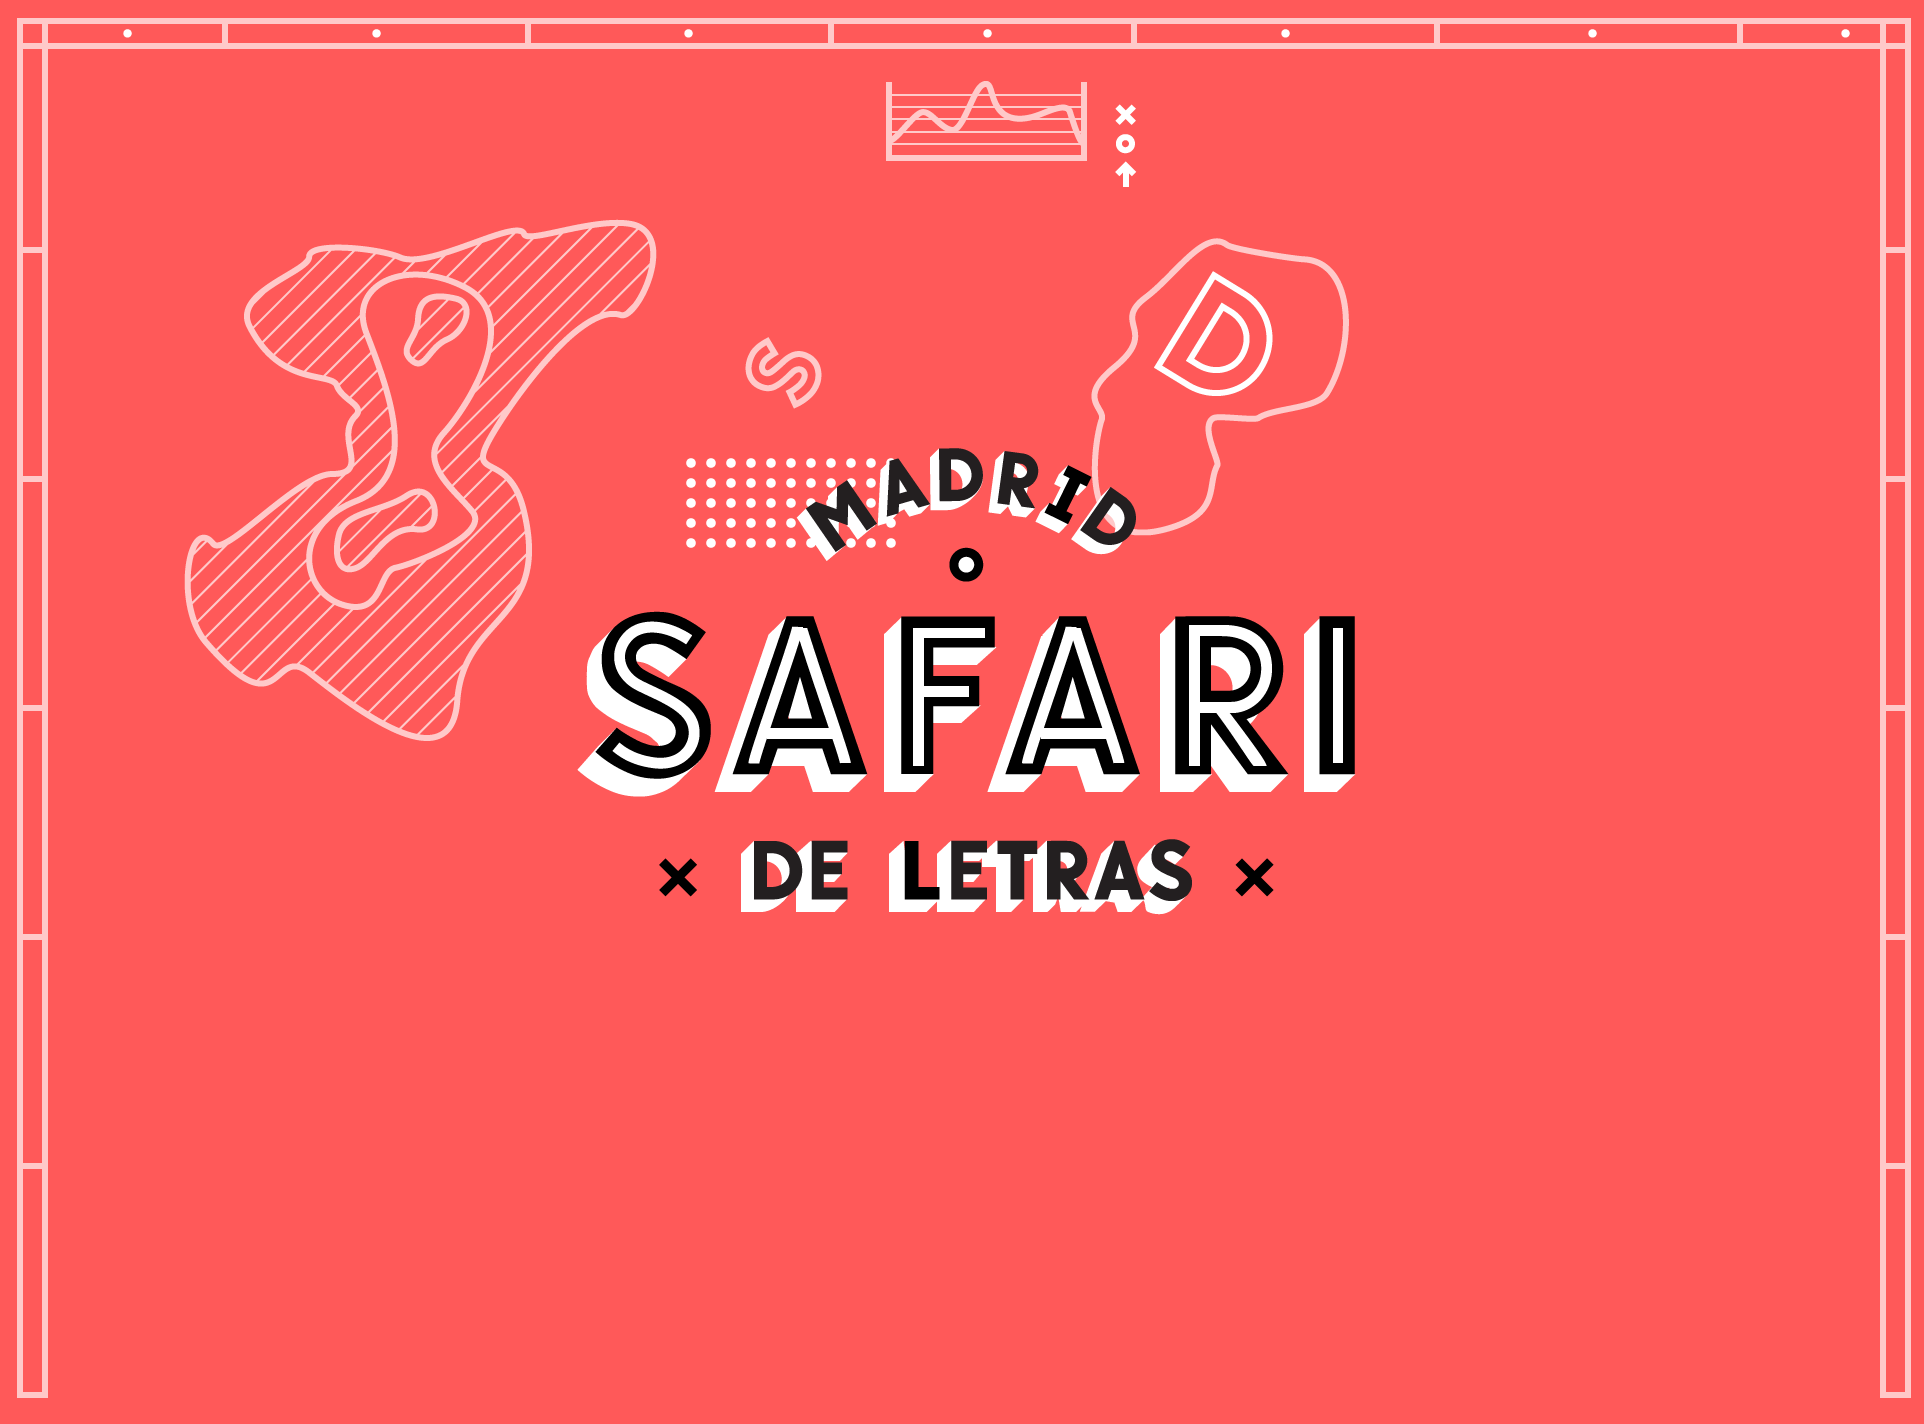
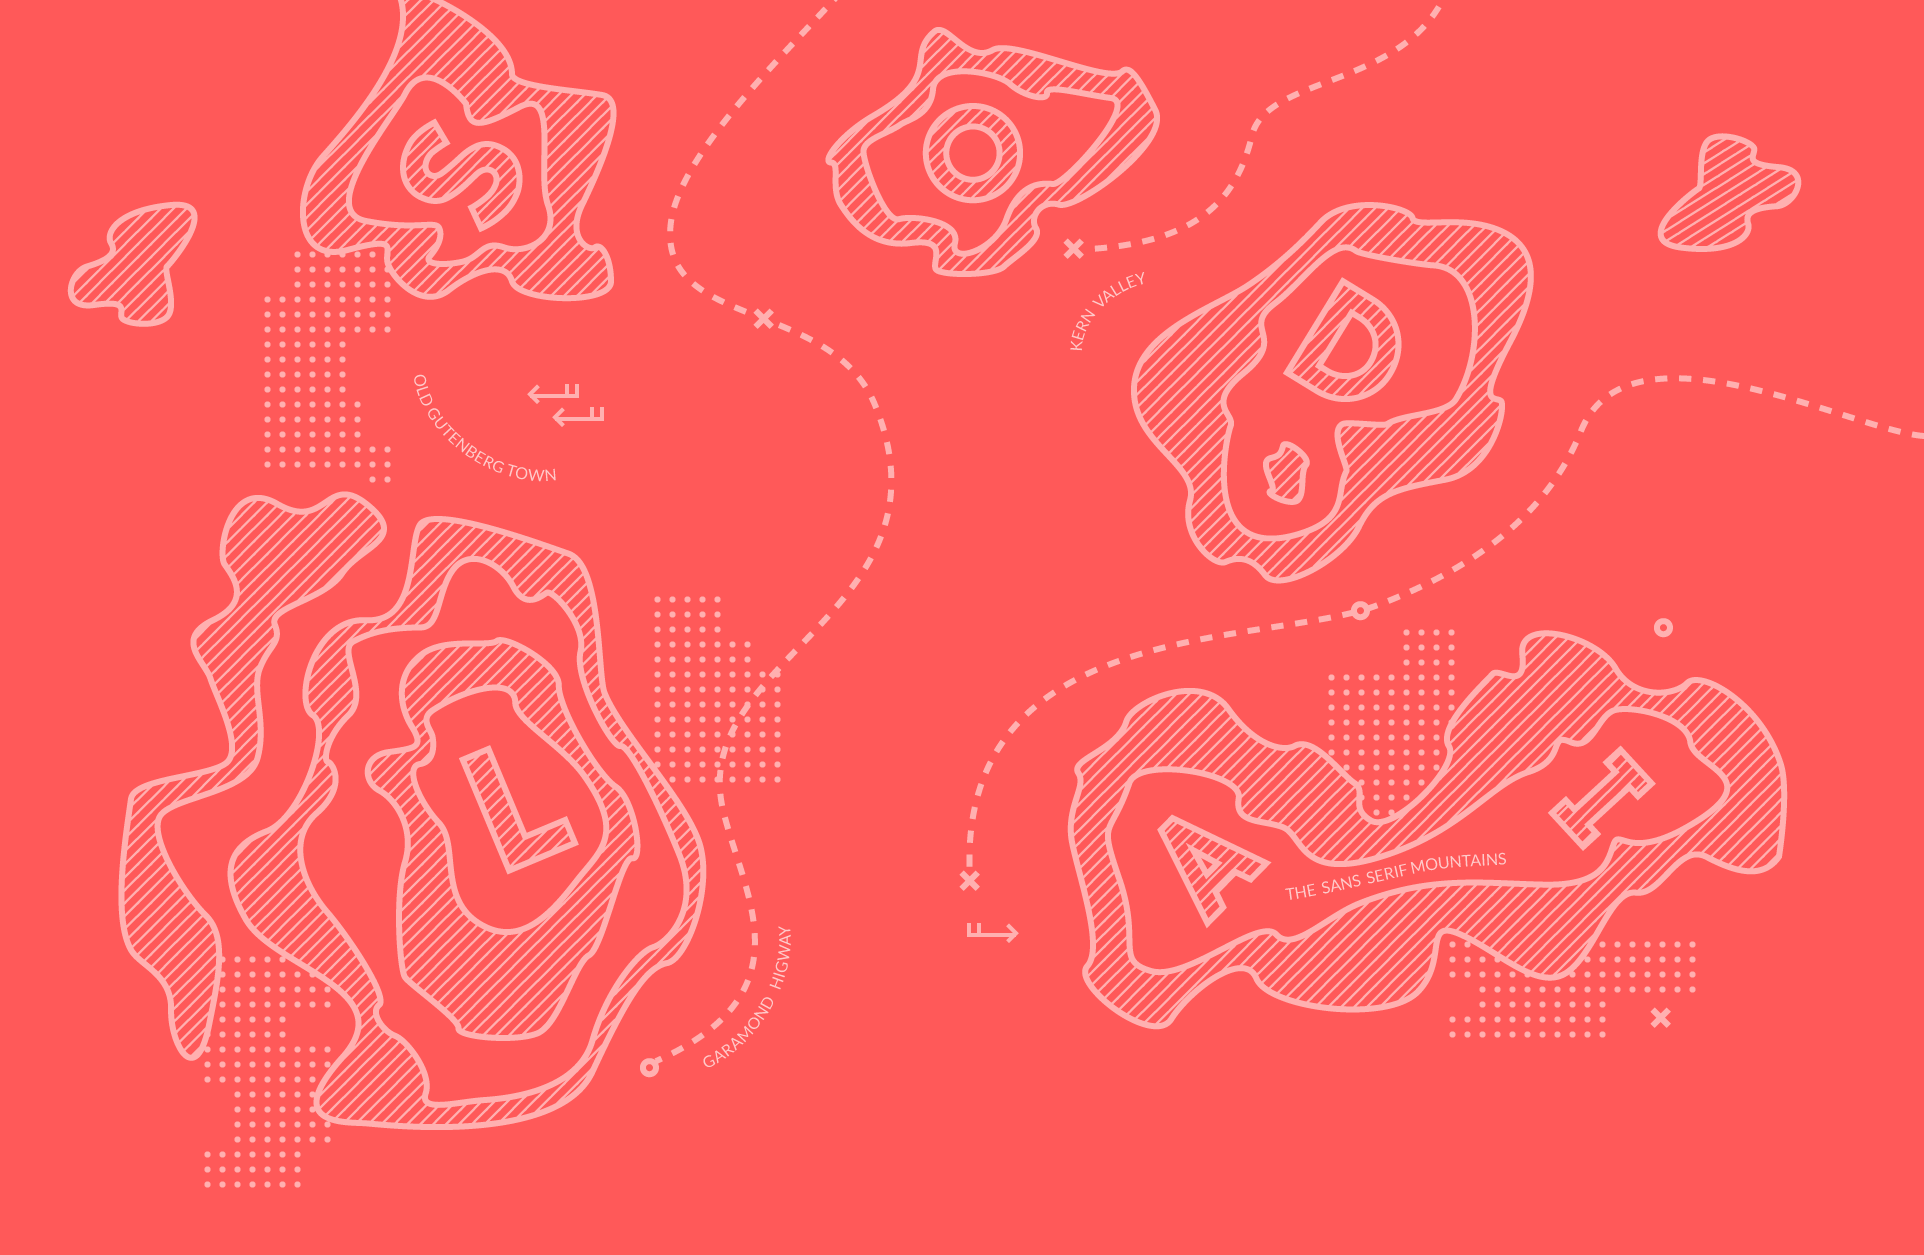
Cabecera final

diff --git a/index.html b/index.html
@@ -95,12 +95,12 @@
 				<div class="col-lg-8 col-lg-offset-2 col-md-8 col-md-offset-2 col-sm-10 col-sm-offset-1 col-xs-10 col-xs-offset-1" style="margin-top: 20px;">
 					<h2 class="titulazo blanco">¡NOS VAMOS DE SAFARI!</h2>
 				<div class="col-lg-12 col-lg-offset-0 hidden-xs">
-					<p class="blanco">Solecito, amigos y una ciudad llena de rótulos. Esos son los ingredientes para un buen safari tipográfico y Madrid los tiene! Vente a descubrir historias, rincones y amigos de tu ciudad hablando de tipografía y pasando un rato divertido. No hace falta ni material especial ni ser un tipógrafo famoso para descubrir Madrid con una mirada distinta!<br><br><button type="button" class="btn btn-white btn-lg" style="color: #ff5959;"><a class="typeform-share link textorojo" href="https://chulotype.typeform.com/to/GSyfie" data-mode="2" target="_blank">Apúntate!</a></button><br><br><br></p>
+					<p class="blanco">Solecito, amigos y una ciudad llena de rótulos. Esos son los ingredientes para un buen safari tipográfico y Madrid los tiene! Vente a descubrir historias, rincones y amigos hablando de tipografía y pasando un rato divertido. No hace falta ni material especial ni ser un tipógrafo famoso para descubrir Madrid con una mirada distinta!<br><br><button type="button" class="btn btn-white btn-lg" style="color: #ff5959;"><a class="typeform-share link textorojo" href="https://chulotype.typeform.com/to/GSyfie" data-mode="2" target="_blank">Apúntate!</a></button><br><br><br></p>
 
 				</div>
 
 				<div class="col-xs-12 col-xs-offset-0 hidden-sm hidden-md hidden-lg">
-					<p class="blanco" style="font-size: 15px; line-height: 23px;">Solecito, amigos y una ciudad llena de rótulos. Esos son los ingredientes para un buen safari tipográfico y Madrid los tiene! Vente a descubrir historias, rincones y amigos de tu ciudad hablando de tipografía y pasando un rato divertido. No hace falta ni material especial ni ser un tipógrafo famoso para descubrir Madrid con una mirada distinta!<br><br><button type="button" class="btn btn-white btn-lg" style="color: #ff5959;"><a class="typeform-share link textorojo" href="https://chulotype.typeform.com/to/GSyfie" data-mode="2" target="_blank">Apúntate!</a></button><br><br><br></p>
+					<p class="blanco" style="font-size: 15px; line-height: 23px;">Solecito, amigos y una ciudad llena de rótulos. Esos son los ingredientes para un buen safari tipográfico y Madrid los tiene! Vente a descubrir historias, rincones y amigos hablando de tipografía y pasando un rato divertido. No hace falta ni material especial ni ser un tipógrafo famoso para descubrir Madrid con una mirada distinta!<br><br><button type="button" class="btn btn-white btn-lg" style="color: #ff5959;"><a class="typeform-share link textorojo" href="https://chulotype.typeform.com/to/GSyfie" data-mode="2" target="_blank">Apúntate!</a></button><br><br><br></p>
 				</div>
 
 				</div>
@@ -120,7 +120,7 @@
 
 				<div class="col-lg-5 col-lg-offset-1 col-md-5 col-md-offset-1 col-sm-6 col-sm-offset-0 col-xs-10 col-xs-offset-1" style="margin-top: 50px; text-align: left;">
 					<h3>Historia de Madrid</h3>
-					<p>¿Creías que Madrid no tiene tradición tipográfica? Recorreremos la ciudad con una mirada diferente pasando por rincones emblemáticos para la imprenta y la tipografía, conociendo hechos, historias, leyendas y mitos de la tipografía madrileña. El nacimiento del Quijote y la historia de su impresión, los poco conocidos tipógrafos madrileños, la fundición Richard Gans... </p>
+					<p>¿Creías que Madrid no tiene tradición tipográfica? Recorreremos el centro de la ciudad con una mirada diferente pasando por rincones emblemáticos para la imprenta y la tipografía, conociendo hechos, historias, leyendas y mitos de la tipografía madrileña. El nacimiento del Quijote y la historia de su impresión, los poco conocidos tipógrafos madrileños, la fundición Richard Gans... </p>
 					<!-- <p><button type="button" class="btn btn-red btn-lg">Call To Action Button</button></p> -->
 				</div>
 				<div class="col-lg-5 col-lg-offset-0 col-md-6 col-md-offset-0 col-sm-6 col-sm-offset-0 col-xs-12 col-xs-offset-0" style="margin-top: 50px;">
@@ -132,7 +132,7 @@
 
 				<div class="col-lg-5 col-lg-offset-1 col-md-5 col-md-offset-1 col-sm-6 col-sm-offset-0 col-xs-10 col-xs-offset-1" style="margin-top: 50px; text-align: left;">
 					<h3>Un rato divertido</h3>
-					<p>Cazar letras es una forma perfecta de redescubrir tu ciudad y aprender. Rótulos olvidados, historias secretas, y mucha tipografía! Solo necesitas una cámara (o un smartfone) y un mapa para no perderte! Comparte las fotos que hagas en twitter e instagram con #Safarideletras!</p>
+					<p>Cazar letras es una forma perfecta de redescubrir tu ciudad y aprender. Rótulos olvidados, historias secretas, y mucha tipografía! Solo necesitas una cámara (o un smartfone) y un mapa para no perderte! ¡Comparte las fotos que hagas en twitter e instagram con #Safarideletras!</p>
 					<!-- <p><button type="button" class="btn btn-red btn-lg">Call To Action Button</button></p> -->
 				</div>
 
@@ -145,7 +145,7 @@
 
 				<div class="col-lg-5 col-lg-offset-1 col-md-5 col-md-offset-1 col-sm-6 col-sm-offset-0 col-xs-10 col-xs-offset-1" style="margin-top: 40px; margin-bottom: 50px; text-align: left;">
 					<h3>Punto de encuentro</h3>
-					<p>Creamos nuestras actividades como un lugar agradable donde compartir nuestra afición por la tipografía con otros. Nos gusta conocer gente nueva y pasar un rato hablando de proyectos, experiencias y opiniones. Y tomar una caña! Siempre hay tiempo para todo.</p>
+					<p>Creamos nuestras actividades como un lugar agradable donde compartir nuestra afición por la tipografía con otros. Nos gusta conocer gente y pasar un rato hablando de proyectos, experiencias y opiniones. ¡Y tomar una caña! Siempre hay tiempo para todo.</p>
 					<!-- <p><button type="button" class="btn btn-red btn-lg">Call To Action Button</button></p> -->
 				</div>
 				<div class="col-lg-5 col-lg-offset-0 col-md-6 col-md-offset-0 col-sm-6 col-sm-offset-0 col-xs-12 col-xs-offset-0" style="margin-top: 40px; margin-bottom: 50px;">
@@ -171,11 +171,11 @@
 				</div> -->
 				<div class="hidden-lg hidden-md hidden-sm col-xs-10 col-xs-offset-1 centered">
 					<h3>Vente por 1 euro</h3>
-					<p>En Chulotype hacemos los safaris por la cultura, no por el dinero. Pero pedimos a los asistentes una cooperación simbólica de 1 € para seguir organizando actividades y ofreciendo cultura tipográfica a precio accesible.</p>
+					<p>En Chulotype trabajamos por la cultura, no por el dinero. Por eso nuestro safari cuesta 1 € con el que seguiremos organizando actividades y ofreciendo cultura tipográfica a precio accesible.</p>
 				</div>
 				<div class="col-lg-7 col-lg-offset-1 col-md-6 col-md-offset-1 col-sm-6 col-sm-offset-0 hidden-xs">
 					<h3>Vente por 1 euro</h3>
-					<p>En Chulotype hacemos los safaris por la cultura, no por el dinero. Pero pedimos a los asistentes una cooperación simbólica de 1 € para seguir organizando actividades y ofreciendo cultura tipográfica a precio accesible.</p>
+					<p>En Chulotype trabajamos por la cultura, no por el dinero. Por eso nuestro safari cuesta 1 € con el que seguiremos organizando actividades y ofreciendo cultura tipográfica a precio accesible.</p>
 				</div>
 
 
@@ -217,14 +217,16 @@
 	<div id="call">
 		<div class="container">
 			<div class="row" style="margin-top: 40px;">
-				<div class="col-lg-8 col-lg-offset-2 col-md-7 col-md-offset-3">
+				<div class="col-lg-9 col-lg-offset-3 col-md-8 col-md-offset-2">
 					
 					<img class="img-responsive col-lg-10 col-lg-offset-1 col-md-10 col-md-offset-1" style="margin-top: 0px; margin-bottom: 50px;" src="assets/img/fanzine.jpg" alt="">
+					<div class="col-lg-10 col-lg-offset-0 col-md-10 col-md-offset-0">
 
-					<p>También puedes ayudarnos comprando uno de los mapas de safari que hemos preparado. Solo vale 3 € y no se gasta! Podrás salir de paseo tipográfico y conocer las historias siempre que te apetezca. Los mapas se encargan al inscribirse en el taller y se recogen ese día.</p>
+					<p>Si quieres seguir la visita con nuestro mapa en mano puedes pedirlo al inscribirte por sólo 3 euros y recogerlo al inicio del safari. Podrás salir de paseo tipográfico y conocer las historias siempre que te apetezca. </p>
 
 					<p><button type="button" class="btn btn-red btn-lg"><a class="typeform-share link" href="https://chulotype.typeform.com/to/GSyfie" data-mode="2" target="_blank">Apúntate y pide el tuyo</a></button><br><br></p>
 					<script>(function(){var qs,js,q,s,d=document,gi=d.getElementById,ce=d.createElement,gt=d.getElementsByTagName,id='typef_orm',b='https://s3-eu-west-1.amazonaws.com/share.typeform.com/';if(!gi.call(d,id)){js=ce.call(d,'script');js.id=id;js.src=b+'share.js';q=gt.call(d,'script')[0];q.parentNode.insertBefore(js,q)}})()</script>
+					</div>
 
 				</div>
 			</div><!-- row -->
@@ -315,7 +317,7 @@
 				
 
 				<div class="col-lg-4">
-					<h3 style="color: #FFF; margin-left: 14px; margin-top: 50px; font-weight:bold;">Próximo safari:<br/>12 de Abril </h3>
+					<h3 style="color: #FFF; margin-left: 14px; margin-top: 50px; font-weight:bold;">Próximo safari:<br/>4 de Mayo </h3>
 					<br>
 					<h3 style="color: #FFF; margin-left: 14px; margin-top: 10px;">
 						Plaza del Caixaforum<br/>
@@ -325,11 +327,11 @@
 					<p>
 						<button type="button" class="btn btn-white btn-lg" style="color: #ff5959;"><a class="typeform-share link textorojo" href="https://chulotype.typeform.com/to/GSyfie" data-mode="2" target="_blank">Apúntate!</a></button>
 					</p>
-					<p>The point of using Lorem Ipsum is that it has a more-or-less normal distribution of letters, as opposed to using 'Content here, content here', making it look like readable English.</p>
+					<p>El safari es para todos los públicos, no hace falta taner conocimientos previos de diseño, tipografía o historia para disfrutar del recorrido.</p>
 				</div><!--col-lg-4-->
 				<div class="col-lg-8">
 		        	<div id="mapwrap">
-						<iframe height="450" width="100%" frameborder="0" scrolling="no" marginheight="0" marginwidth="0" src="https://www.google.es/maps?t=m&amp;ie=UTF8&amp;ll=52.752693,22.791016&amp;spn=67.34552,156.972656&amp;z=6&amp;output=embed"></iframe>
+						<iframe src="https://www.google.com/maps/embed?pb=!1m14!1m8!1m3!1d3037.8757584801524!2d-3.695998747731151!3d40.411603047664386!3m2!1i1024!2i768!4f13.1!3m3!1m2!1s0xd4226287988cc51%3A0x2013ae1ea82f415a!2sPaseo+del+Prado%2C+34!5e0!3m2!1ses!2ses!4v1397418192243" width="100%" height="450" frameborder="0" style="border:0" zoom="10"></iframe>
 					</div>	
 				</div><!--col-lg-8-->
 

diff --git a/assets/css/main.css b/assets/css/main.css
@@ -267,7 +267,7 @@ hr {
 }
 #headerwrap {
     /*background: url(../img/header-bg1.jpg) no-repeat center top;*/
-    background: url(../img/cabecera.jpg) no-repeat center top;
+    background: url(../img/cabecera.png) no-repeat center top;
     margin-top: -10px;
     padding-top: 20px;
     text-align: center;
